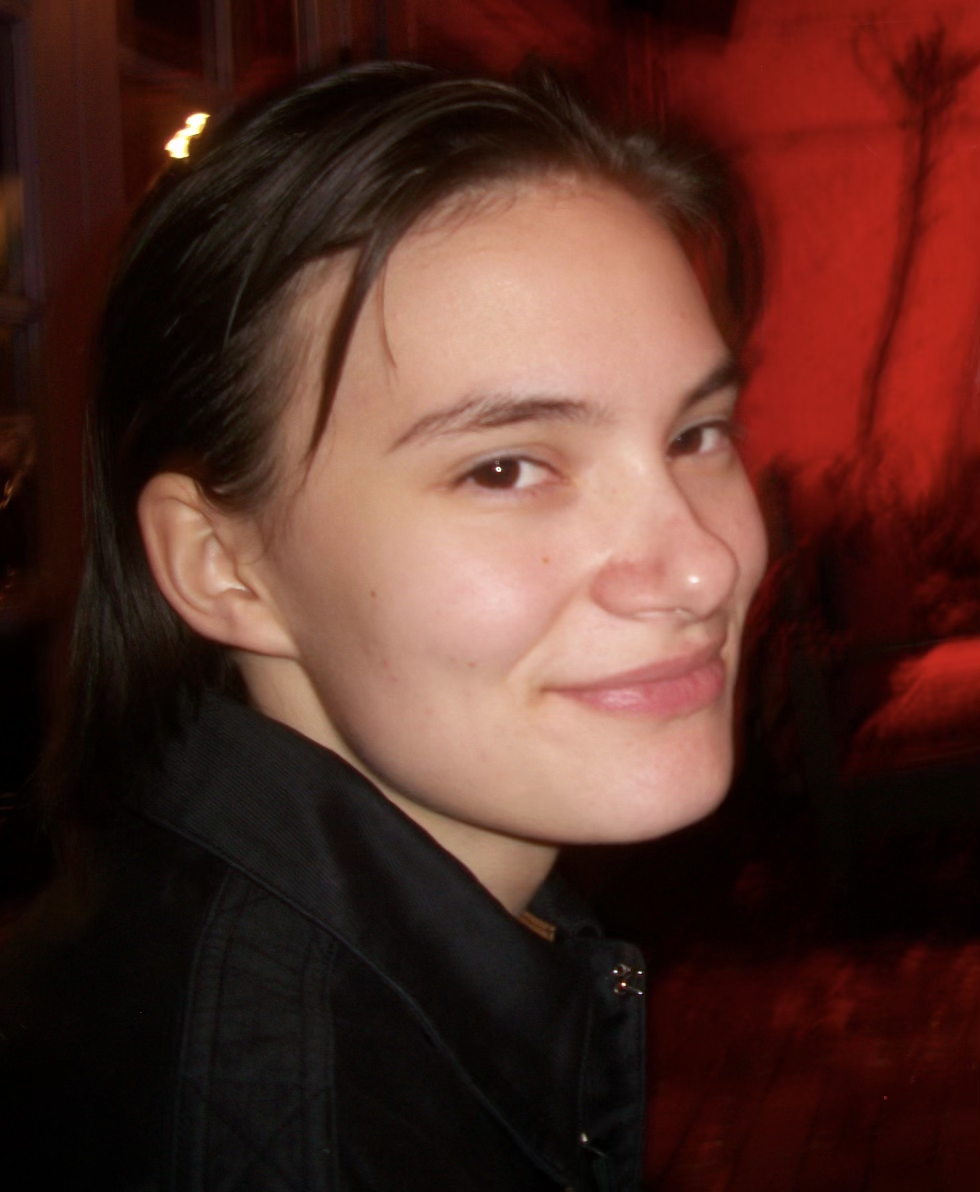
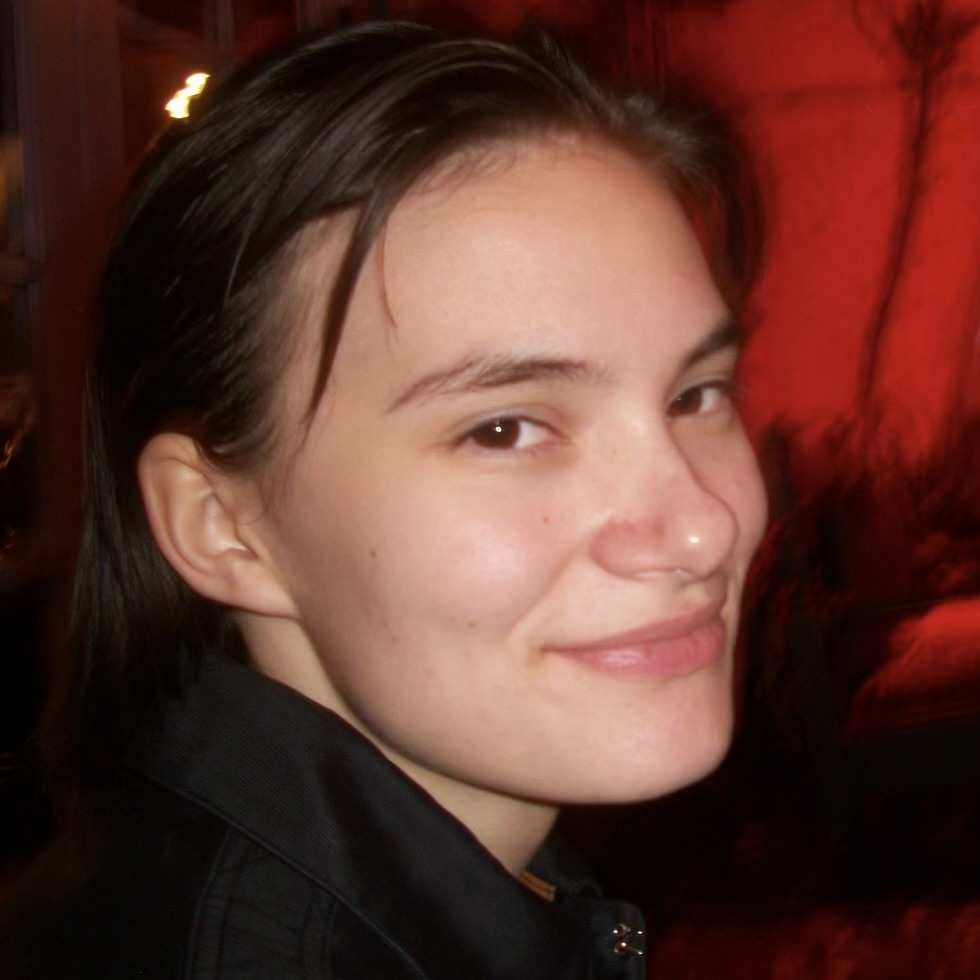
square crop profile pictures & add bio animation

diff --git a/application/tutor-app/src/index.scss b/application/tutor-app/src/index.scss
@@ -166,6 +166,20 @@ button:hover {
   font-size: 20px;
   margin: auto;
   width: 50%;
+  opacity: 0; 
+  animation: fadeIn 1s ease-in-out forwards; 
+  padding: 20px;
+  background-color: $header-bg-color; 
+  border-radius: 10px; 
+}
+
+@keyframes fadeIn {
+  from {
+    opacity: 0;
+  }
+  to {
+    opacity: 1;
+  }
 }
 
 .image-container {
@@ -175,6 +189,13 @@ button:hover {
   display: flex;
   justify-content: center;
   align-items: center;
+  margin-bottom: 20px; 
+}
+
+.profile-image-container {
+  border: 2px solid rgba(40, 40, 40, 0.9);
+  border-radius: 50%; /* Keep it rounded */
+  overflow: hidden;
 }
 
 .profile-image {
